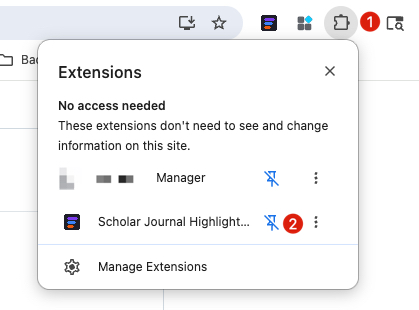
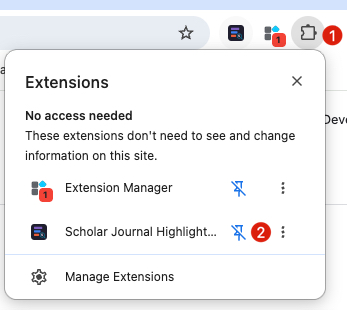
Update README screenshots, combine pin and settings steps side by side

diff --git a/README.md b/README.md
@@ -58,17 +58,14 @@ Go to `chrome://extensions/` in your browser. Turn on **Developer mode** (top-ri
 
 ![Enable Developer mode and Load unpacked](docs/images/install-developer-mode.jpeg)
 
-### Step 3: Pin the Extension
+### Step 3: Pin the Extension and Configure Settings
 
-Click the puzzle icon in the Chrome toolbar, then click the pin icon (marked **2** below) next to Scholar Journal Highlighter.
+Click the puzzle icon in Chrome, then pin Scholar Journal Highlighter. Click the extension icon to open settings.
 
-![Pin extension to toolbar](docs/images/install-pin-extension.jpg)
-
-### Step 4: Configure Settings
-
-Click the extension icon in your toolbar to open settings.
-
-![Extension settings popup](docs/images/popup-settings.jpg)
+<table><tr>
+<td><img src="docs/images/install-pin-extension.jpg" width="280" alt="Pin extension to toolbar"></td>
+<td><img src="docs/images/popup-settings.jpg" width="280" alt="Extension settings popup"></td>
+</tr></table>
 
 **Library proxy (recommended):** Enable "Library proxy" and enter your institution's EZproxy URL prefix. Example:
 - `https://ezproxy.yourschool.edu/login?url=`
@@ -87,9 +84,9 @@ Journal badges (UTD24, FT50), Library/Sci-Hub buttons, and citation highlighting
 
 ### Author Profile
 
-Journal badges and access buttons on an author's Google Scholar profile page.
+Publication summary bar with counts and percentages, journal badges, access buttons, and citation highlighting. Click any count to filter.
 
-![Author profile with journal badges](docs/images/profile-page.jpg)
+![Author profile with summary bar and journal badges](docs/images/profile-page.jpg)
 
 ## Accessibility
 